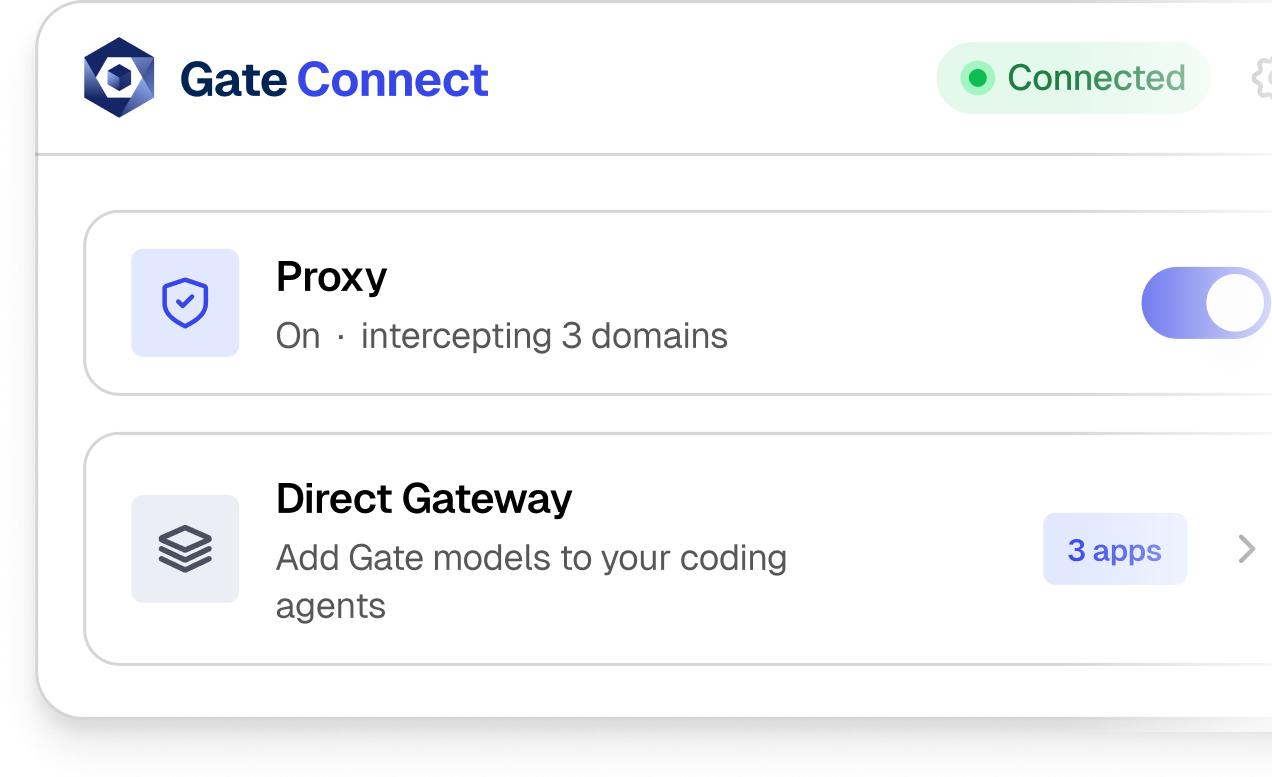
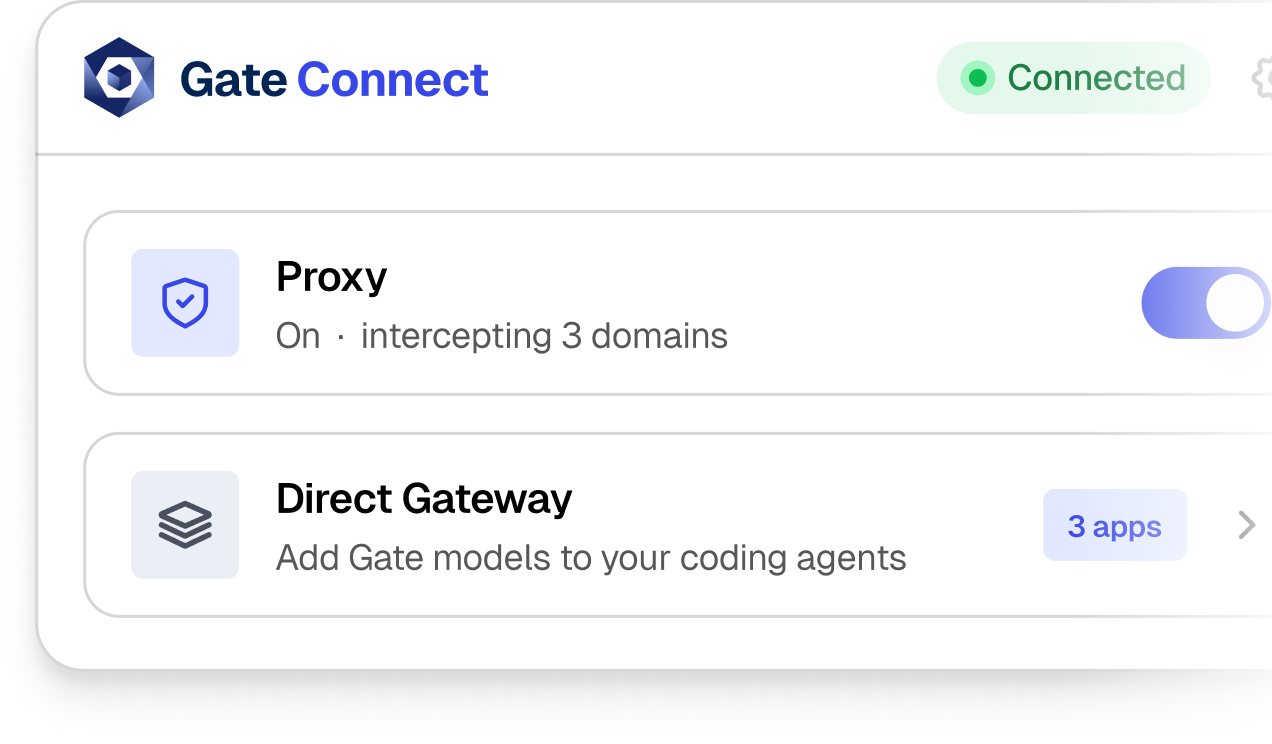
feat(api-keys,overview): reuse hero code tabs on API Keys; copy/asset polish
- API Keys "Using your key": drop the cURL/Claude Code/OpenAI-SDK CodeCard and
  replace with the hero's provider code tabs (Anthropic default / OpenAI /
  Google), reusing DashboardDefault's exported CodePanel + HERO_SNIPPETS.
  gap-0 Tabs, 4px tab top-pad, copy button nudged to align.
- DashboardDefault: export CodePanel + HERO_SNIPPETS; hero title "Get started
  with our Gate Connect App"; download modal widened to 440px.
- Update Gate Connect app preview assets (faded hero + modal screenshot).

diff --git a/src/pages/ApiKeys.tsx b/src/pages/ApiKeys.tsx
@@ -14,14 +14,9 @@ import {
   DialogTitle,
 } from '@/components/ui/dialog';
 import { Card } from '@/components/ui/card';
-import {
-  CodeBlock,
-  CodeCard,
-  CodeCardHeader,
-  CodeCardTabs,
-  linesToString,
-  type CodeLine,
-} from '@/components/ui/code-card';
+import { Tabs, TabsList, TabsTrigger, TabsContent } from '@/components/ui/tabs';
+import { AnthropicIcon, OpenAIIcon, GeminiIcon } from '@/components/icons/model-providers';
+import { CodePanel, HERO_SNIPPETS } from '@/pages/DashboardDefault';
 import { CopyButton, useCopyFeedback } from '@/components/ui/copy-button';
 import { EmptyState } from '@/components/ui/empty-state';
 import { IconActionButton } from '@/components/ui/icon-action-button';
@@ -235,122 +230,11 @@ function KeysEmptyState({ onCreate }: { onCreate: () => void }) {
 
 /* ─── Usage info ───────────────────────────────────────────────────────── */
 
-// `sk-gw-…YOUR_KEY` is a stand-in. Tones match the request/response modal's
-// JSON palette (property = blue, string = greenish-blue, variable = amber
-// for fill-in placeholders) so code surfaces across the dashboard share a
-// family. Three examples cover the most common ways to call the gateway:
-// raw HTTP (curl), the Claude Code env-var pattern, and the OpenAI SDK.
-// The gateway is provider-neutral — curl leads on purpose.
-
-const CURL_LINES: CodeLine[] = [
-  [
-    { text: 'curl', tone: 'property' },
-    { text: ' https://gateway-staging.constellationgate.ai/v1/chat/completions \\' },
-  ],
-  [
-    { text: '  -H', tone: 'property' },
-    { text: ' "X-Gateway-Api-Key: ', tone: 'string' },
-    { text: 'sk-gw-…YOUR_KEY', tone: 'variable' },
-    { text: '" \\', tone: 'string' },
-  ],
-  [
-    { text: '  -H', tone: 'property' },
-    { text: ' "Content-Type: application/json"', tone: 'string' },
-    { text: ' \\' },
-  ],
-  [
-    { text: '  -d', tone: 'property' },
-    { text: ' \'{' },
-    { text: '"model"', tone: 'property' },
-    { text: ': ' },
-    { text: '"claude-sonnet-4.8"', tone: 'string' },
-    { text: ', ' },
-    { text: '"messages"', tone: 'property' },
-    { text: ': [{' },
-    { text: '"role"', tone: 'property' },
-    { text: ': ' },
-    { text: '"user"', tone: 'string' },
-    { text: ', ' },
-    { text: '"content"', tone: 'property' },
-    { text: ': ' },
-    { text: '"Hello"', tone: 'string' },
-    { text: '}]}\'' },
-  ],
-];
-
-const CLAUDE_CODE_LINES: CodeLine[] = [
-  [{ text: '# Point Claude Code at the gateway instead of Anthropic directly', tone: 'muted' }],
-  [
-    { text: 'export', tone: 'property' },
-    { text: ' ANTHROPIC_BASE_URL=' },
-    { text: '"https://gateway-staging.constellationgate.ai"', tone: 'string' },
-  ],
-  [{ text: '' }],
-  [{ text: '# Add your gateway key so the gateway can authenticate requests', tone: 'muted' }],
-  [
-    { text: 'export', tone: 'property' },
-    { text: ' ANTHROPIC_CUSTOM_HEADERS=' },
-    { text: '"X-Gateway-Api-Key: ', tone: 'string' },
-    { text: 'sk-gw-…YOUR_KEY', tone: 'variable' },
-    { text: '"', tone: 'string' },
-  ],
-];
-
-const OPENAI_SDK_LINES: CodeLine[] = [
-  [
-    { text: 'import', tone: 'property' },
-    { text: ' OpenAI ' },
-    { text: 'from', tone: 'property' },
-    { text: ' ' },
-    { text: "'openai'", tone: 'string' },
-    { text: ';' },
-  ],
-  [{ text: '' }],
-  [
-    { text: 'const', tone: 'property' },
-    { text: ' client = ' },
-    { text: 'new', tone: 'property' },
-    { text: ' OpenAI({' },
-  ],
-  [
-    { text: '  baseURL: ' },
-    { text: "'https://gateway-staging.constellationgate.ai/v1'", tone: 'string' },
-    { text: ',' },
-  ],
-  [
-    { text: '  apiKey: ' },
-    { text: "'", tone: 'string' },
-    { text: 'sk-gw-…YOUR_KEY', tone: 'variable' },
-    { text: "'", tone: 'string' },
-    { text: ',' },
-  ],
-  [{ text: '  defaultHeaders: {' }],
-  [
-    { text: '    ' },
-    { text: "'X-Gateway-Api-Key'", tone: 'property' },
-    { text: ': ' },
-    { text: "'", tone: 'string' },
-    { text: 'sk-gw-…YOUR_KEY', tone: 'variable' },
-    { text: "'", tone: 'string' },
-    { text: ',' },
-  ],
-  [{ text: '  },' }],
-  [{ text: '});' }],
-];
-
-type ExampleTab = 'cURL' | 'Claude Code' | 'OpenAI SDK';
-
-const EXAMPLE_LINES: Record<ExampleTab, CodeLine[]> = {
-  cURL: CURL_LINES,
-  'Claude Code': CLAUDE_CODE_LINES,
-  'OpenAI SDK': OPENAI_SDK_LINES,
-};
-
-const EXAMPLE_TABS: ExampleTab[] = ['cURL', 'Claude Code', 'OpenAI SDK'];
+// Provider SDK quickstarts (Anthropic / OpenAI / Google) reuse the hero
+// card's CodePanel + snippets so the API Keys page and Overview stay in sync.
 
 function UsageInfo() {
-  const [tab, setTab] = useState<ExampleTab>('cURL');
-  const activeLines = EXAMPLE_LINES[tab];
+  const [tab, setTab] = useState<'anthropic' | 'openai' | 'google'>('anthropic');
   return (
     // max-w-3xl (768px) — code snippets don't earn 1200px of width; the
     // curl body line and the OpenAI SDK indentation both fit without
@@ -379,22 +263,33 @@ function UsageInfo() {
         </p>
       </div>
 
-      <CodeCard>
-        <CodeCardHeader>
-          <CodeCardTabs
-            items={EXAMPLE_TABS}
-            active={tab}
-            onChange={(v) => setTab(v as ExampleTab)}
-          />
-          <CopyButton
-            mode="label"
-            text="Copy code"
-            value={linesToString(activeLines)}
-            label={`${tab} snippet`}
-          />
-        </CodeCardHeader>
-        <CodeBlock lines={activeLines} density="compact" />
-      </CodeCard>
+      <Card density="flush">
+        <Tabs defaultValue="anthropic" className="gap-0" onValueChange={(v) => setTab(v as 'anthropic' | 'openai' | 'google')}>
+          <div className="flex items-center justify-between px-4 pt-1 border-b border-border">
+            <TabsList variant="line" className="px-0 border-b-0">
+              <TabsTrigger value="anthropic">
+                <AnthropicIcon className="size-4" />Anthropic
+              </TabsTrigger>
+              <TabsTrigger value="openai">
+                <OpenAIIcon className="size-4" />OpenAI
+              </TabsTrigger>
+              <TabsTrigger value="google">
+                <GeminiIcon className="size-4" />Google
+              </TabsTrigger>
+            </TabsList>
+            <CopyButton mode="label" text="Copy code" value={HERO_SNIPPETS[tab]} label="code snippet" className="-translate-y-[2px]" />
+          </div>
+          <TabsContent value="anthropic" className="mt-0">
+            <CodePanel snippet={HERO_SNIPPETS.anthropic} />
+          </TabsContent>
+          <TabsContent value="openai" className="mt-0">
+            <CodePanel snippet={HERO_SNIPPETS.openai} />
+          </TabsContent>
+          <TabsContent value="google" className="mt-0">
+            <CodePanel snippet={HERO_SNIPPETS.google} />
+          </TabsContent>
+        </Tabs>
+      </Card>
     </section>
   );
 }

diff --git a/src/pages/DashboardDefault.tsx b/src/pages/DashboardDefault.tsx
@@ -68,7 +68,7 @@ const model = genAI.getGenerativeModel({ model: "gemini-1.5-pro" });
 const result = await model.generateContent("Hello!");
 console.log(result.response.text());`;
 
-const HERO_SNIPPETS: Record<string, string> = {
+export const HERO_SNIPPETS: Record<string, string> = {
   anthropic: HERO_ANTHROPIC_SNIPPET,
   openai: HERO_OPENAI_SNIPPET,
   google: HERO_GOOGLE_SNIPPET,
@@ -113,7 +113,7 @@ function tokenizeLine(line: string): CodeToken[] {
   return tokens;
 }
 
-function CodePanel({ snippet }: { snippet: string }) {
+export function CodePanel({ snippet }: { snippet: string }) {
   const lines = snippet.split('\n');
   return (
     <div className="p-4 overflow-x-auto">
@@ -160,7 +160,7 @@ function HeroCard() {
               <div className="flex flex-col gap-2">
                 {false && <Badge variant="info">Recommended</Badge>}
                 <h3 className="text-2xl font-semibold tracking-tight text-neutral-900 m-0">
-                  Get started with Gate Connect App
+                  Get started with our Gate Connect App
                 </h3>
                 <p className="text-sm text-neutral-500 text-pretty max-w-[480px] m-0">
                   Connect your providers or individual models to Gate AI using our app. Gate Connect writes the config for you, so every request flows right through the gateway. <span className="font-semibold">No code required.</span>
@@ -175,7 +175,7 @@ function HeroCard() {
                       </Button>
                     }
                   />
-                  <DialogContent showCloseButton={false} className="p-0 gap-0 overflow-hidden sm:max-w-[400px]">
+                  <DialogContent showCloseButton={false} className="p-0 gap-0 overflow-hidden sm:max-w-[440px]">
                     {/* Image slot */}
                     <div className="aspect-video bg-neutral-100 border-b border-border flex items-center justify-center px-6 pt-10 pb-4">
                       <img
@@ -188,7 +188,7 @@ function HeroCard() {
                     <div className="flex flex-col gap-6 p-6">
                       <div className="flex flex-col gap-2">
                         <DialogTitle className="text-lg leading-none font-medium text-neutral-900 m-0">
-                          Get started with Gate Connect App
+                          Get started with our Gate Connect App
                         </DialogTitle>
                         <DialogDescription className="text-sm text-neutral-500 text-pretty m-0">
                           Connect your providers or individual models to Gate AI using our app. Gate Connect writes the config for you, so every request flows right through the gateway.
